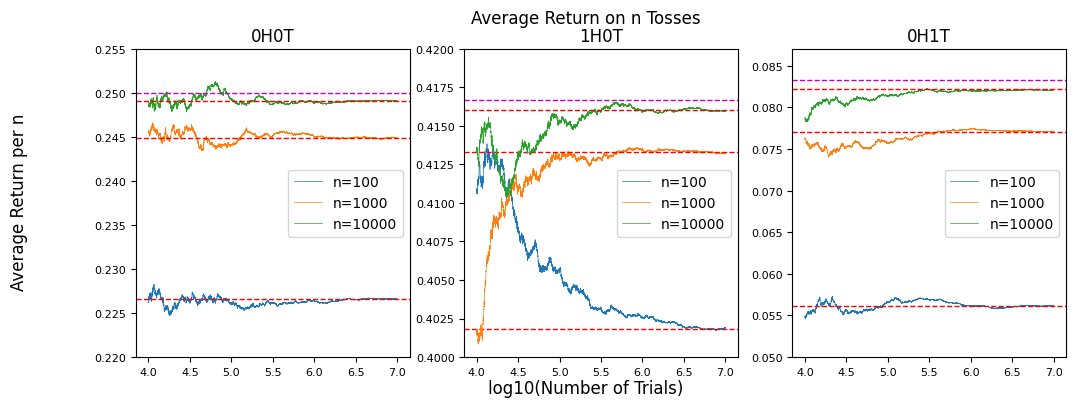
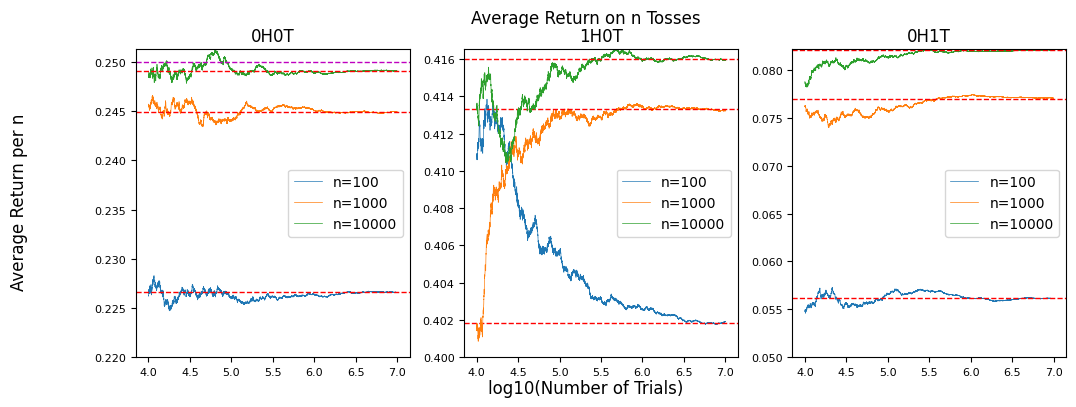
new plot

diff --git a/plot_simulaiton.py b/plot_simulaiton.py
@@ -12,7 +12,7 @@ avgPerNs = [
 yRanges = [
         [0.22,0.255],
         [0.4, 0.42],
-        [0.05,0.087]
+        [0.05,0.09]
         ]
 plt.rcParams["figure.figsize"] = (12,4)
 fig, axes = plt.subplots(1,3)
@@ -34,7 +34,9 @@ for k in range(3):
         avg = avg[10000:]
         ax.plot(np.log10(np.arange(10001,d.shape[0]+1))[::10], avg[::10], linewidth=0.5, label='n={n}'.format(n=n))
         ax.axhline(y=avgPerN[j], color='r', linestyle='--', linewidth=1)
-        ax.set_ylim((min(yRange[0],avg.min()),max(yRange[1],avg.max())))
+        yRange[0] = min(yRange[0],avg.min())
+        yRange[1] = max(yRange[0],avg.max())
+    ax.set_ylim(yRange)
     ax.axhline(y=avgPerN[-1], color='m', linestyle='--', linewidth=1)
     ax.tick_params(axis='both', labelsize=8)
     ax.set_title(title)
